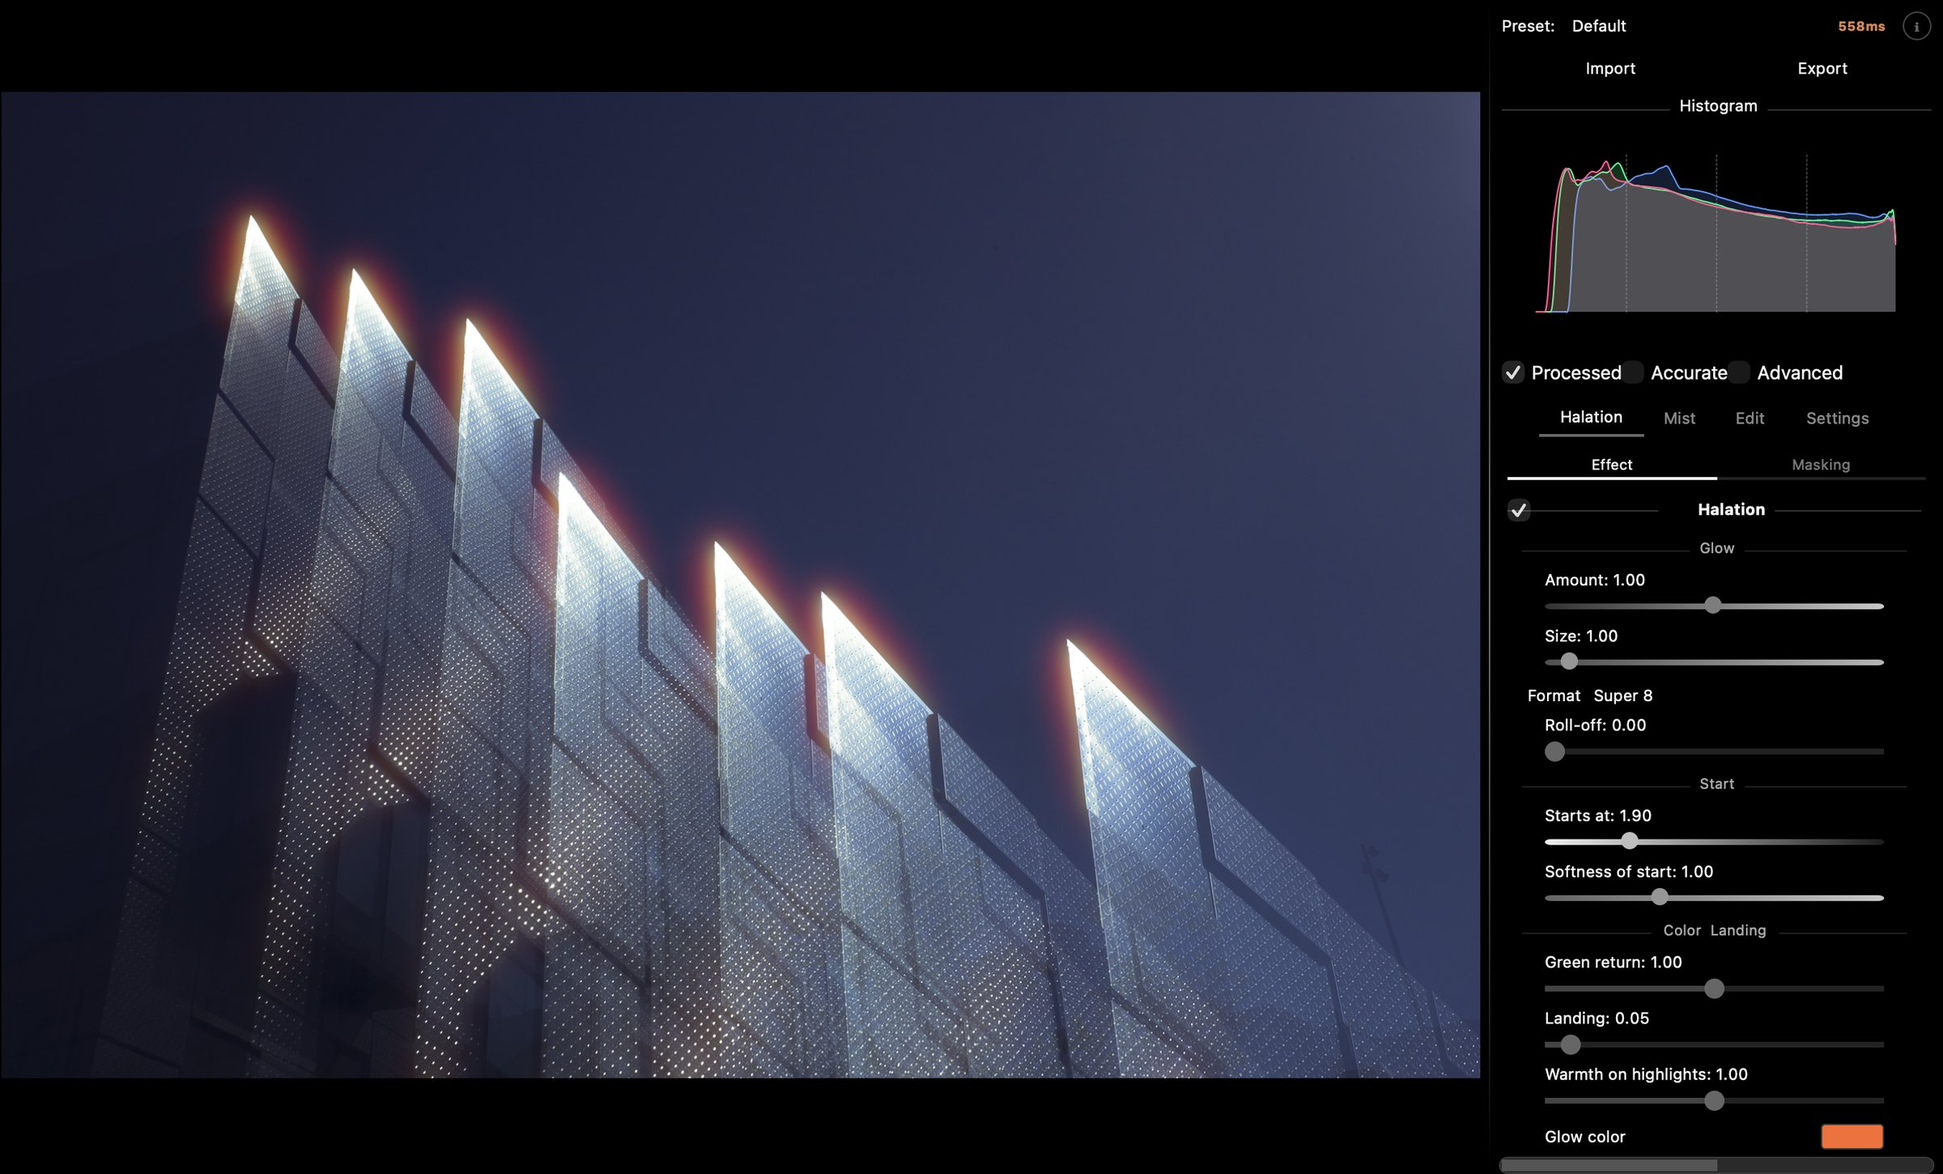
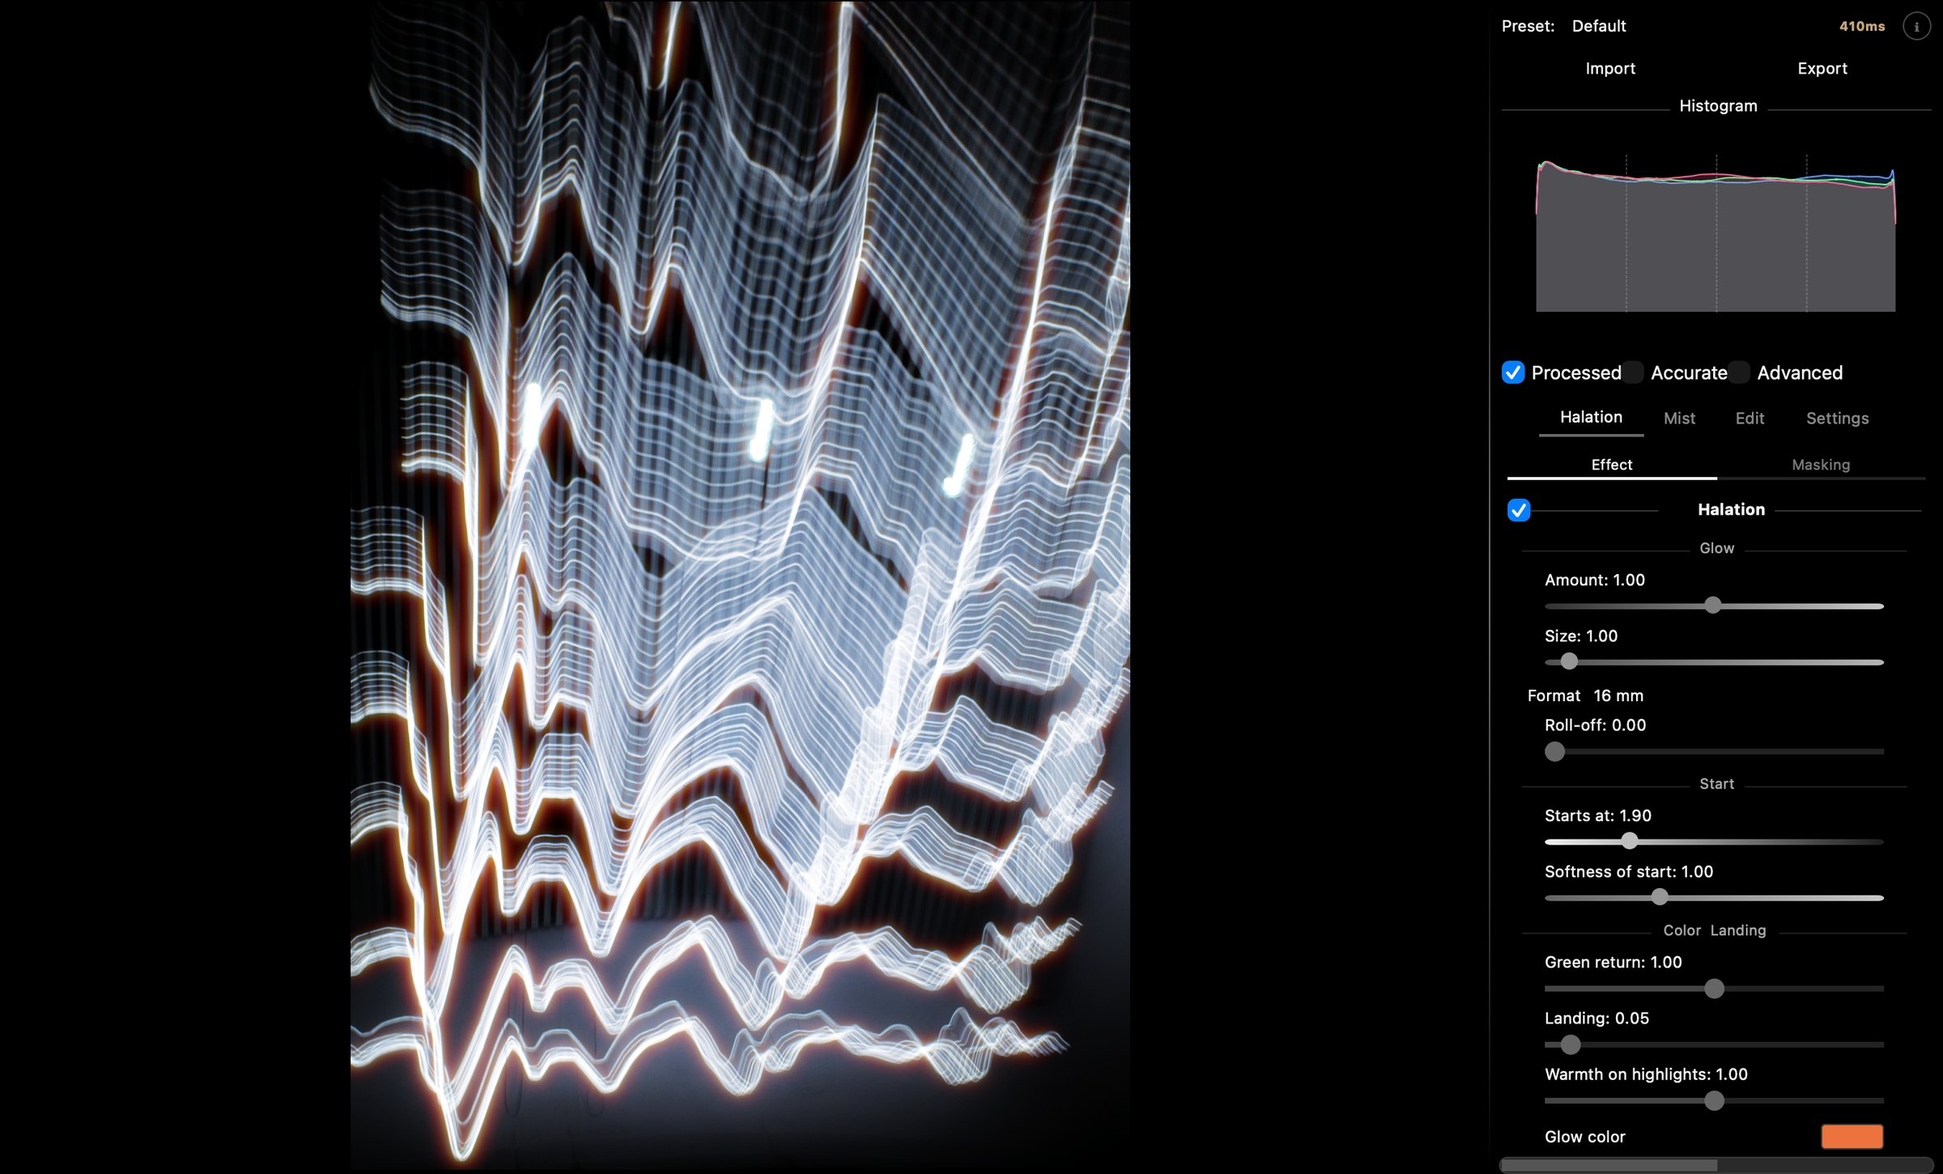
Cook round 6: light trails in the real window, column in the gallery, shorter hero, readable captions and fine print, marked Pro card

diff --git a/index.html b/index.html
@@ -34,12 +34,12 @@
 </div></nav>
 <main id="main">
 <header class="sec hero" id="top"><div class="wrap">
-<div class="head head--c rise"><h1>Halation that knows where the light is.</h1><p class="lead">Halo Pro is a halation emulator for the Mac. It puts film’s red-orange glow beside the brightest light in your photograph, where film would put it.</p><div class="acts"><a class="pill" href="https://alriclj.gumroad.com/l/HALO_PRO?variant=Halo%20Pro%20-%20FREE&amp;wanted=true">Download free</a><a class="textlink" href="https://alriclj.gumroad.com/l/HALO_PRO?variant=Halo%20Pro&amp;wanted=true">Buy Pro for €20</a></div><p class="terms">macOS 14 or later on Apple Silicon. Free for personal work, with every control.</p></div>
+<div class="head head--c rise"><h1>Halation that knows where the light is.</h1><p class="lead">Halo Pro is a halation emulator for the Mac. Film’s red-orange glow, beside the brightest light, where film would put it.</p><div class="acts"><a class="pill" href="https://alriclj.gumroad.com/l/HALO_PRO?variant=Halo%20Pro%20-%20FREE&amp;wanted=true">Download free</a><a class="textlink" href="https://alriclj.gumroad.com/l/HALO_PRO?variant=Halo%20Pro&amp;wanted=true">Buy Pro for €20</a></div><p class="terms">macOS 14, Apple Silicon. Free for personal work.</p></div>
 </div>
 <div class="stagewide rise"><figure class="flip flip--overlay"><div class="flip-tabs" role="group" aria-label="Which version to show"><button type="button" aria-pressed="false">As opened</button><button type="button" aria-pressed="true">Halo Pro</button></div><div class="flip-frame"><img src="img/cook/hero-opened.jpg" width="1800" height="900" alt="A glass facade at dusk as the file was opened: lit white fins against a dark blue sky" loading="eager" decoding="async"><img class="is-on" src="img/cook/hero-halo.jpg" width="1800" height="900" alt="The same photograph exported from Halo Pro: each lit fin carries a red-orange glow that fades into the dark sky" loading="eager" decoding="async"></div><figcaption class="cap">A lit facade at dusk: halation only, Format 16 mm, Roll-off 0.5. Tap the picture to switch.</figcaption></figure></div>
 </header>
-<section class="sec" id="app"><div class="wrap"><div class="head rise"><h2>Set the glow in one window.</h2><p class="lead">Open a TIFF, PNG or JPEG, set how much light comes back and how far it spreads, and export.</p></div></div><div class="window rise"><div class="win-bar" aria-hidden="true"><i></i><i></i><i></i><span>Halo Pro</span></div><picture><source media="(max-width: 700px)" srcset="img/cook/window-phone.jpg"><img src="img/cook/window.jpg" width="2400" height="1450" alt="The Halo Pro window: a photograph in the middle, the Halation controls on the right with Amount, Size and Format" loading="lazy" decoding="async"></picture><p class="cap">Halo Pro 2.3 with the same photograph open: the Default look, Format Super 8.</p></div><div class="wrap"><div class="facts rise"><div class="fact"><b>32-bit float</b><span>at every step, from opening the file to writing it out.</span></div><div class="fact"><b>0.9 seconds</b><span>for a 12-megapixel export on an M3 Max.</span></div><div class="fact"><b>Your profile kept</b><span>sRGB, Display P3, Adobe RGB or ProPhoto RGB: the glow looks the same in each.</span></div></div></div></section>
-<section class="sec" id="made"><div class="wrap"><div class="head rise"><h2>Made with Halo Pro.</h2><p class="lead">Photographs exported from Halo Pro.</p></div></div><div class="wrap"><div class="flip-tabs flip-tabs--all" role="group" aria-label="Show every picture as"><button type="button" aria-pressed="false" data-all="0">As opened</button><button type="button" aria-pressed="true" data-all="1">Halo Pro</button></div></div><div class="gallery rise"><div class="row row--21"><figure class="flip flip--quiet"><div class="flip-tabs" role="group" aria-label="Which version to show"><button type="button" aria-pressed="false">As opened</button><button type="button" aria-pressed="true">Halo Pro</button></div><div class="flip-frame"><img src="img/cook/g-fjord-opened.jpg" width="1600" height="1067" alt="Two hands framing a fjord with snowy mountains and a lit town, as opened" loading="lazy" decoding="async"><img class="is-on" src="img/cook/g-fjord-halo.jpg" width="1600" height="1067" alt="Two hands framing a fjord with snowy mountains and a lit town, exported from Halo Pro with a red-orange glow beside the lights" loading="lazy" decoding="async"></div><figcaption class="cap">The glow wraps the fingers where the bright valley meets them.</figcaption></figure><figure class="flip flip--quiet"><div class="flip-tabs" role="group" aria-label="Which version to show"><button type="button" aria-pressed="false">As opened</button><button type="button" aria-pressed="true">Halo Pro</button></div><div class="flip-frame"><img src="img/cook/g-lights-opened.jpg" width="800" height="1067" alt="Out-of-focus lights on black, as opened" loading="lazy" decoding="async"><img class="is-on" src="img/cook/g-lights-halo.jpg" width="800" height="1067" alt="Out-of-focus lights on black, exported from Halo Pro with a red-orange glow beside the lights" loading="lazy" decoding="async"></div><figcaption class="cap">Each light gets its own halo; the black between stays black.</figcaption></figure></div><div class="row row--12"><figure class="flip flip--quiet"><div class="flip-tabs" role="group" aria-label="Which version to show"><button type="button" aria-pressed="false">As opened</button><button type="button" aria-pressed="true">Halo Pro</button></div><div class="flip-frame"><img src="img/cook/g-tree-opened.jpg" width="800" height="1067" alt="A tree on a slope with the sun shining through its crown, as opened" loading="lazy" decoding="async"><img class="is-on" src="img/cook/g-tree-halo.jpg" width="800" height="1067" alt="A tree on a slope with the sun shining through its crown, exported from Halo Pro with a red-orange glow beside the lights" loading="lazy" decoding="async"></div><figcaption class="cap">The bright sky spills red into the edge of the crown.</figcaption></figure><figure class="flip flip--quiet"><div class="flip-tabs" role="group" aria-label="Which version to show"><button type="button" aria-pressed="false">As opened</button><button type="button" aria-pressed="true">Halo Pro</button></div><div class="flip-frame"><img src="img/cook/g-water-opened.jpg" width="1600" height="1067" alt="A figure with an oar against the sun on water, the shoreline lit, as opened" loading="lazy" decoding="async"><img class="is-on" src="img/cook/g-water-halo.jpg" width="1600" height="1067" alt="A figure with an oar against the sun on water, the shoreline lit, exported from Halo Pro with a red-orange glow beside the lights" loading="lazy" decoding="async"></div><figcaption class="cap">The lit shoreline and the sun on the water glow; the sky does not change colour.</figcaption></figure></div></div><div class="wrap"><p class="cap gallery-note">All four: halation only, Format 16 mm, Amount 1, Roll-off 0.5, Mist off, Warmth on highlights 0.</p></div></section>
+<section class="sec" id="app"><div class="wrap"><div class="head rise"><h2>Set the glow in one window.</h2><p class="lead">Open a TIFF, PNG or JPEG, set how much light comes back and how far it spreads, and export.</p></div></div><div class="window rise"><div class="win-bar" aria-hidden="true"><i></i><i></i><i></i><span>Halo Pro</span></div><picture><source media="(max-width: 700px)" srcset="img/cook/window-phone.jpg"><img src="img/cook/window.jpg" width="2400" height="1450" alt="The Halo Pro window with a photograph of light trails, a red-orange glow along each line, and the Halation controls on the right" loading="lazy" decoding="async"></picture><p class="cap">Halo Pro 2.3 with light trails open: the Default look, Format 16 mm.</p></div><div class="wrap"><div class="facts rise"><div class="fact"><b>32-bit float</b><span>at every step, from opening the file to writing it out.</span></div><div class="fact"><b>0.9 seconds</b><span>for a 12-megapixel export on an M3 Max.</span></div><div class="fact"><b>Your profile kept</b><span>sRGB, Display P3, Adobe RGB or ProPhoto RGB: the glow looks the same in each.</span></div></div></div></section>
+<section class="sec" id="made"><div class="wrap"><div class="head rise"><h2>Made with Halo Pro.</h2><p class="lead">Four photographs, halation only. Switch to see each file as it was opened.</p></div></div><div class="wrap"><div class="flip-tabs flip-tabs--all" role="group" aria-label="Show every picture as"><button type="button" aria-pressed="false" data-all="0">As opened</button><button type="button" aria-pressed="true" data-all="1">Halo Pro</button></div></div><div class="gallery rise"><div class="row row--21"><figure class="flip flip--quiet"><div class="flip-tabs" role="group" aria-label="Which version to show"><button type="button" aria-pressed="false">As opened</button><button type="button" aria-pressed="true">Halo Pro</button></div><div class="flip-frame"><img src="img/cook/g-fjord-opened.jpg" width="1600" height="1067" alt="Two hands framing a fjord with snowy mountains and a lit town, as opened" loading="lazy" decoding="async"><img class="is-on" src="img/cook/g-fjord-halo.jpg" width="1600" height="1067" alt="Two hands framing a fjord with snowy mountains and a lit town, exported from Halo Pro with a red-orange glow beside the lights" loading="lazy" decoding="async"></div><figcaption class="cap">The glow wraps the fingers where the bright valley meets them.</figcaption></figure><figure class="flip flip--quiet"><div class="flip-tabs" role="group" aria-label="Which version to show"><button type="button" aria-pressed="false">As opened</button><button type="button" aria-pressed="true">Halo Pro</button></div><div class="flip-frame"><img src="img/cook/g-lights-opened.jpg" width="800" height="1067" alt="Out-of-focus lights on black, as opened" loading="lazy" decoding="async"><img class="is-on" src="img/cook/g-lights-halo.jpg" width="800" height="1067" alt="Out-of-focus lights on black, exported from Halo Pro with a red-orange glow beside the lights" loading="lazy" decoding="async"></div><figcaption class="cap">Each light gets its own halo; the black between stays black.</figcaption></figure></div><div class="row row--2"><figure class="flip flip--quiet"><div class="flip-tabs" role="group" aria-label="Which version to show"><button type="button" aria-pressed="false">As opened</button><button type="button" aria-pressed="true">Halo Pro</button></div><div class="flip-frame"><img src="img/cook/g-column-opened.jpg" width="1600" height="1067" alt="A white concrete column in sun against a black shadow, a skateboarder far behind, as opened" loading="lazy" decoding="async"><img class="is-on" src="img/cook/g-column-halo.jpg" width="1600" height="1067" alt="The same photograph from Halo Pro: a red-orange glow along the sunlit edges of the column, the shadow still black" loading="lazy" decoding="async"></div><figcaption class="cap">The sunlit edge glows into the shadow; the concrete stays grey.</figcaption></figure><figure class="flip flip--quiet"><div class="flip-tabs" role="group" aria-label="Which version to show"><button type="button" aria-pressed="false">As opened</button><button type="button" aria-pressed="true">Halo Pro</button></div><div class="flip-frame"><img src="img/cook/g-water-opened.jpg" width="1600" height="1067" alt="A figure with an oar against the sun on water, the shoreline lit, as opened" loading="lazy" decoding="async"><img class="is-on" src="img/cook/g-water-halo.jpg" width="1600" height="1067" alt="A figure with an oar against the sun on water, the shoreline lit, exported from Halo Pro with a red-orange glow beside the lights" loading="lazy" decoding="async"></div><figcaption class="cap">The lit shoreline and the sun on the water glow; the sky does not change colour.</figcaption></figure></div></div><div class="wrap"><p class="cap gallery-note">All four: halation only, Format 16 mm, Amount 1, Roll-off 0.5, Mist off, Warmth on highlights 0.</p></div></section>
 <section class="sec" id="light"><div class="wrap"><div class="head rise"><h2>Bright areas keep their colour.</h2><p class="lead">The usual shortcut blurs everything bright and tints it red, so a pale sky turns pink and a grey wall goes warm. Halo Pro works out where film would send light back: the glow lands beside the lights and not on the bright surface itself.</p></div></div><div class="wrap"><figure class="stack stack--3 rise"><div class="stack-i"><p class="stack-l">As opened</p><img src="img/cook/ridge-opened.jpg" width="1000" height="667" alt="A figure on a ridge against a pale blue-white sky, as opened" loading="lazy" decoding="async"></div><div class="stack-i"><p class="stack-l">Red blur</p><img src="img/cook/ridge-blur.jpg" width="1000" height="667" alt="The same detail through a red blur: the sky behind the figure has turned pink" loading="lazy" decoding="async"></div><div class="stack-i"><p class="stack-l">Halo Pro</p><img src="img/cook/ridge-halo.jpg" width="1000" height="667" alt="The same detail from Halo Pro: the sky is the colour it was, with a red-orange glow along the ridge and the figure" loading="lazy" decoding="async"></div><figcaption class="cap">A figure on a ridge, shown at full size. Red blur: our own render, everything bright blurred and tinted. Halo Pro: halation only, Format 16 mm, Amount 1, Warmth on highlights 0, Mist off.</figcaption></figure></div><div class="stagewide rise"><figure class="flip"><div class="flip-tabs" role="group" aria-label="Which version to show"><button type="button" aria-pressed="false">As opened</button><button type="button" aria-pressed="true">Halo Pro</button></div><div class="flip-frame"><img src="img/cook/hair-opened.jpg" width="1800" height="1011" alt="A skier in a helmet and goggles, backlit, hair blowing out against a blue sky with out-of-focus blue lights, as opened" loading="lazy" decoding="async"><img class="is-on" src="img/cook/hair-halo.jpg" width="1800" height="1011" alt="The same photograph from Halo Pro: the backlit hair carries a red-orange glow; the helmet, the sky and the blue lights are as they were" loading="lazy" decoding="async"></div><figcaption class="cap">Backlit hair, halation only at Format 16 mm, Amount 1, Warmth on highlights 0, Mist off. The helmet, the sky and the blue lights measure the same as opened.</figcaption></figure></div></section>
 <section class="sec" id="lightroom"><div class="wrap"><div class="head rise"><h2>Beside Lightroom’s Halation.</h2><p class="lead">One test file through Lightroom’s Halation at its smallest Spread, and through Halo Pro with a glow a little wider. In Lightroom the light grey turns pink and the cyan almost white, and the red end gets no glow. Halo Pro keeps the bars’ colours and glows red and orange where film would.</p></div></div><div class="wrap"><figure class="stack stack--1 rise"><div class="stack-i"><p class="stack-l">Test file</p><img src="img/cook/bars-source.jpg" width="1808" height="530" alt="Three bars of light on black: a white bar fading to dark, a grey bar with a hot white centre, and a full spectrum from red through blue, green and yellow to orange" loading="lazy" decoding="async"></div><div class="stack-i"><p class="stack-l">Lightroom 10.0</p><img src="img/cook/bars-lightroom.jpg" width="1808" height="530" alt="The bars through Lightroom’s Halation: a pink-red haze around the bright parts, the grey and pale parts of the bars turned pink and white, no glow at the red end" loading="lazy" decoding="async"></div><div class="stack-i"><p class="stack-l">Halo Pro 2.3</p><img src="img/cook/bars-halopro.jpg" width="1808" height="530" alt="The bars through Halo Pro: the bars keep their colours, a red-orange glow at the white end and along the red and orange parts of the spectrum, none at the blue" loading="lazy" decoding="async"></div></figure></div><div class="wrap"><div class="numbers rise"><div class="num"><b>36% <em>/</em> 2.7%</b><span>Lightroom recolours the bars themselves: the share of their pixels moved by more than 8 levels, Lightroom then Halo Pro.</span></div><div class="num"><b>210 → 253</b><span>Lightroom turns a light grey pink: 210 comes out at 253, 213, 214. Halo Pro leaves it at 210.</span></div><div class="num"><b>0 <em>/</em> 96</b><span>Red light gets no glow in Lightroom. Levels of red glow beside the red end, out of 255: Lightroom then Halo Pro.</span></div></div><p class="cap">An 8-bit test file 2,048 pixels wide. Lightroom 10.0, Halation, Spread 0, as exported. Halo Pro 2.3, Format Super 8, Amount 1, Warmth on highlights 0, Mist off. Their glows reach 24 and 30 pixels past the white bar.</p></div></section>
 <section class="sec" id="mist"><div class="wrap"><div class="head rise"><h2>Mist, chosen after the shoot.</h2><p class="lead">A mist filter on the lens scatters highlight light into the shadows. Here it is a stage after the halation, and its strength stays open until you export.</p></div></div><div class="stagewide rise"><figure class="flip flip--overlay"><div class="flip-tabs" role="group" aria-label="Which version to show"><button type="button" aria-pressed="false">Mist off</button><button type="button" aria-pressed="true">Mist on</button></div><div class="flip-frame"><img src="img/cook/mist-off.jpg" width="1366" height="911" alt="Out-of-focus lights on black with halation only: a red-orange rim on each light and hard black between them" loading="lazy" decoding="async"><img class="is-on" src="img/cook/mist-on.jpg" width="1366" height="911" alt="The same export with Mist on: a soft pale veil spreads from the lights across the black" loading="lazy" decoding="async"></div><figcaption class="cap">Lights at night, the same halation in both (Format 16 mm). Mist on: Density 1.00, Spread 50, Softness 1.00. The Default look uses Density 0.30, a much lighter veil.</figcaption></figure></div></section>

diff --git a/home.css b/home.css
@@ -12,7 +12,7 @@
   --mono: "IBM Plex Mono", ui-monospace, Menlo, monospace;
   --wrap: 1200px;
   --gut: 40px;
-  --t-hero: clamp(44px, 5.6vw, 84px);
+  --t-hero: clamp(44px, 5.2vw, 76px);
   --t-h2: clamp(36px, 5vw, 72px);
   --t-lead: clamp(19px, 1.7vw, 24px);
   --t-body: 17px;
@@ -62,7 +62,7 @@ h2 { font-size: var(--t-h2); line-height: 1.04; letter-spacing: -.03em; font-wei
 .cap b { color: var(--fg-2); font-weight: 500; }
 
 /* hero */
-.hero { padding-top: 56px; }
+.hero { padding-top: 40px; }
 .hero .head { max-width: 1120px; }
 .hero .lead { max-width: 640px; }
 .hero .acts { margin-top: 28px; }
@@ -97,7 +97,7 @@ html:not(.js) .flip-tabs { display: none; }
 .fact span { display: block; margin-top: 10px; color: var(--fg-2); font-size: var(--t-body); }
 
 /* gallery */
-.gallery { display: grid; gap: 8px; margin-top: 72px; }
+.gallery { display: grid; gap: 40px; margin-top: 72px; }
 .gallery .row { display: grid; gap: 8px; }
 .gallery .row--2 { grid-template-columns: 1fr 1fr; }
 .gallery .row--3 { grid-template-columns: 1fr 1fr 1fr; }
@@ -106,7 +106,7 @@ html:not(.js) .flip-tabs { display: none; }
 .gallery .flip-frame { border-radius: 0; }
 .gallery .flip-frame img { height: 100%; object-fit: cover; }
 .gallery .flip--quiet .flip-tabs { display: none; }
-.gallery figcaption { margin: 10px 0 0; padding: 0 var(--gut); font-size: var(--t-small); color: var(--fg-2); }
+.gallery figcaption { margin: 12px 0 0; padding: 0 var(--gut); font-size: var(--t-body); color: var(--fg-2); }
 .gallery .row--2 > .flip + .flip figcaption, .gallery .row--21 > .flip + .flip figcaption, .gallery .row--12 > .flip + .flip figcaption { padding-left: 0; }
 .flip-tabs--all { display: inline-flex; margin: 56px 0 0; }
 .flip-tabs--all + .gallery, .wrap:has(.flip-tabs--all) + .gallery { margin-top: 24px; }
@@ -146,8 +146,8 @@ html:not(.js) .flip-tabs { display: none; }
 .plan .pill, .plan .textlink { margin-top: auto; align-self: flex-start; }
 .pill--ghost { background: transparent; color: var(--fg); box-shadow: inset 0 0 0 1px rgba(255, 255, 255, .35); }
 .pill--ghost:hover { background: rgba(255, 255, 255, .08); }
-.plan--main { background: var(--bg-3); }
-.small-print { margin-top: 40px; color: var(--fg-2); font-size: var(--t-small); max-width: 900px; }
+.plan--main { background: var(--bg-3); box-shadow: inset 0 0 0 1px rgba(255, 255, 255, .28); }
+.small-print { margin-top: 40px; color: var(--fg-2); font-size: var(--t-body); max-width: 900px; }
 .small-print p + p { margin-top: 8px; }
 .more { margin-top: 40px; }
 .more > summary { cursor: pointer; color: var(--warm); list-style: none; display: inline-flex; min-height: 44px; align-items: center; }
